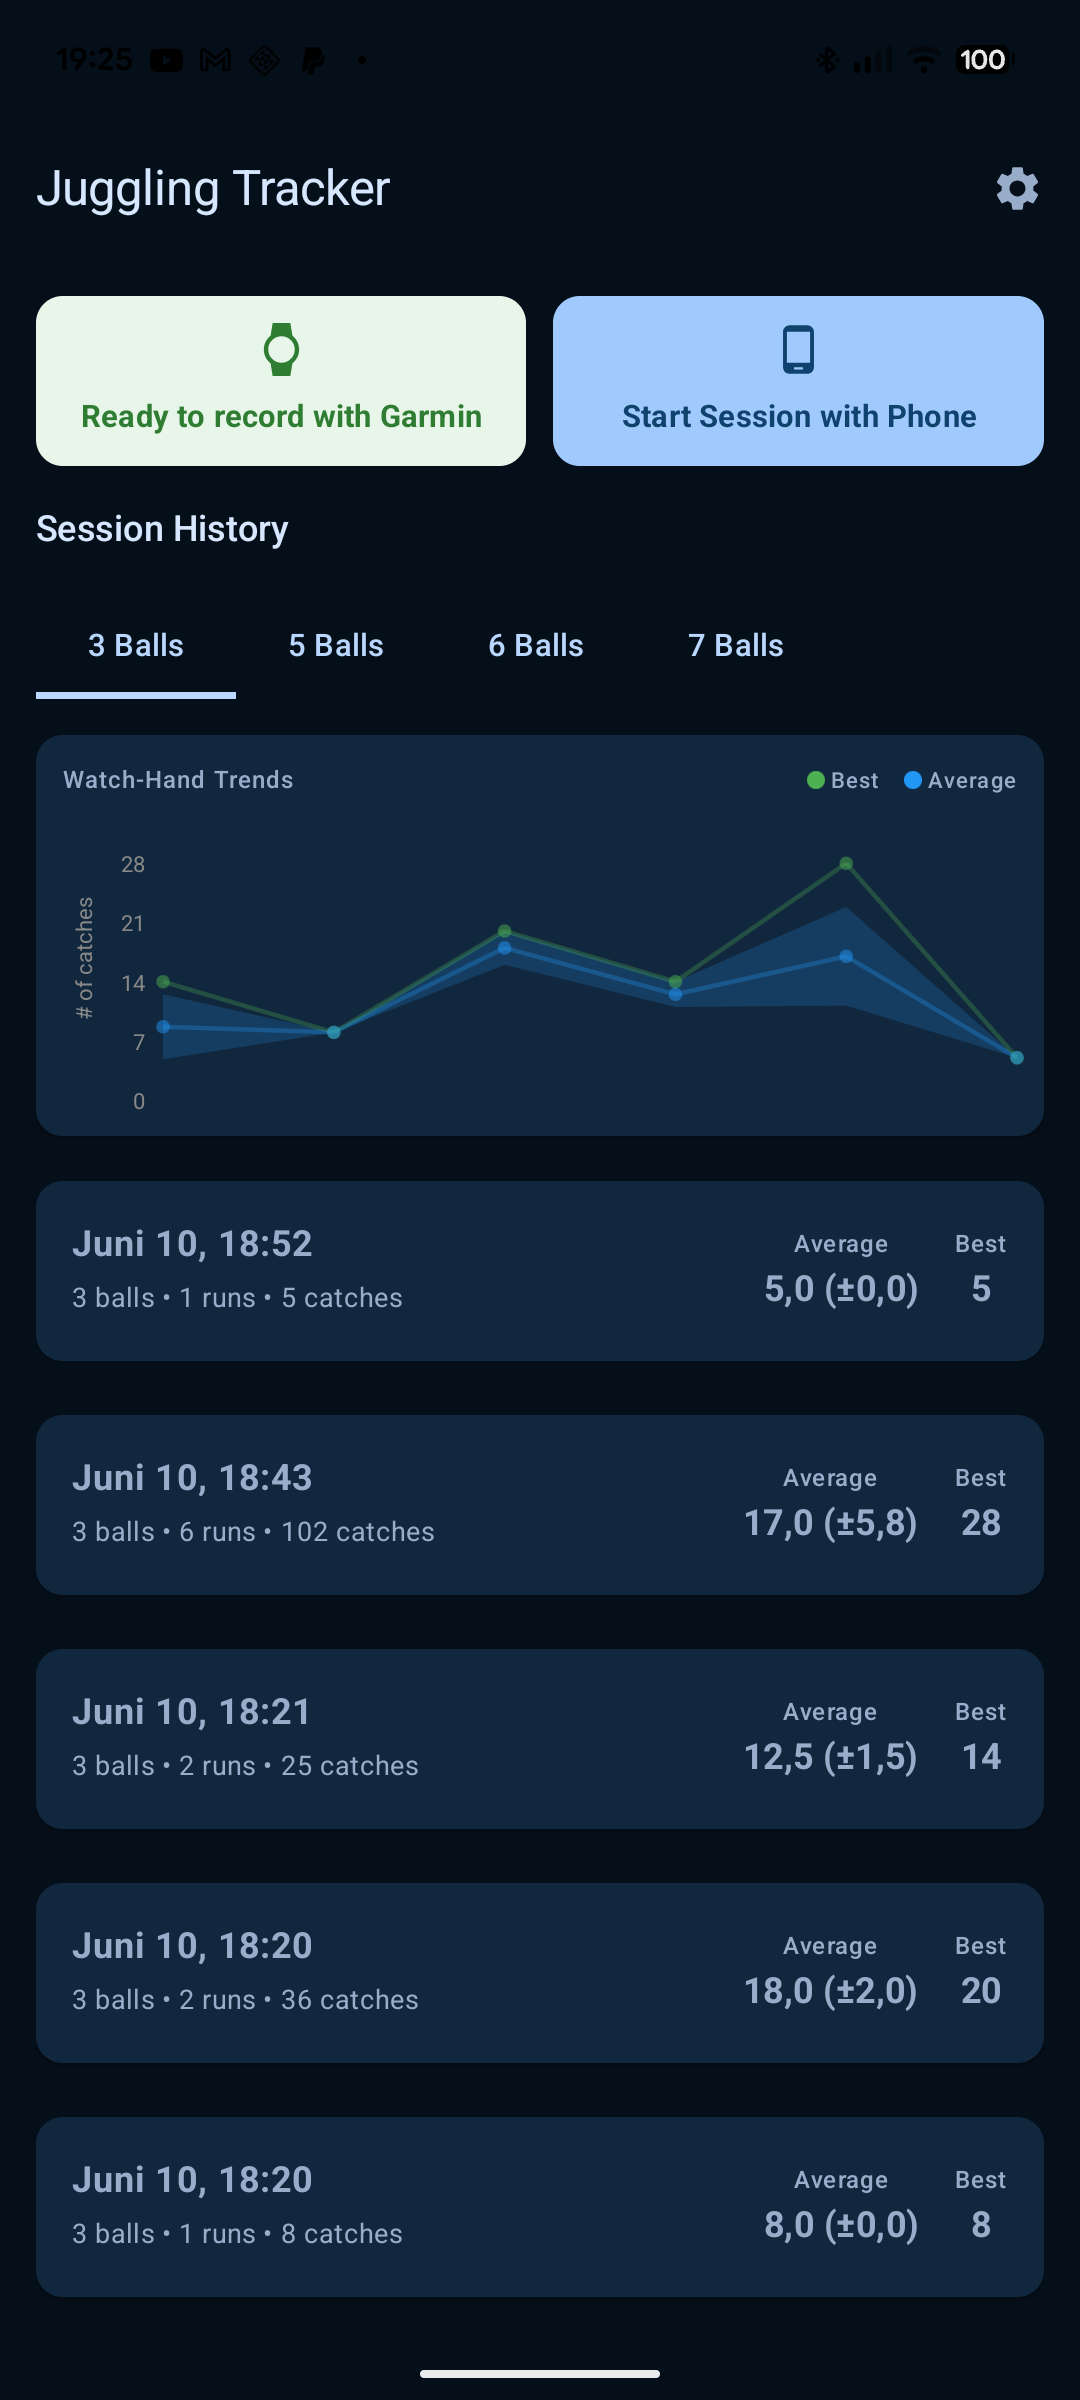
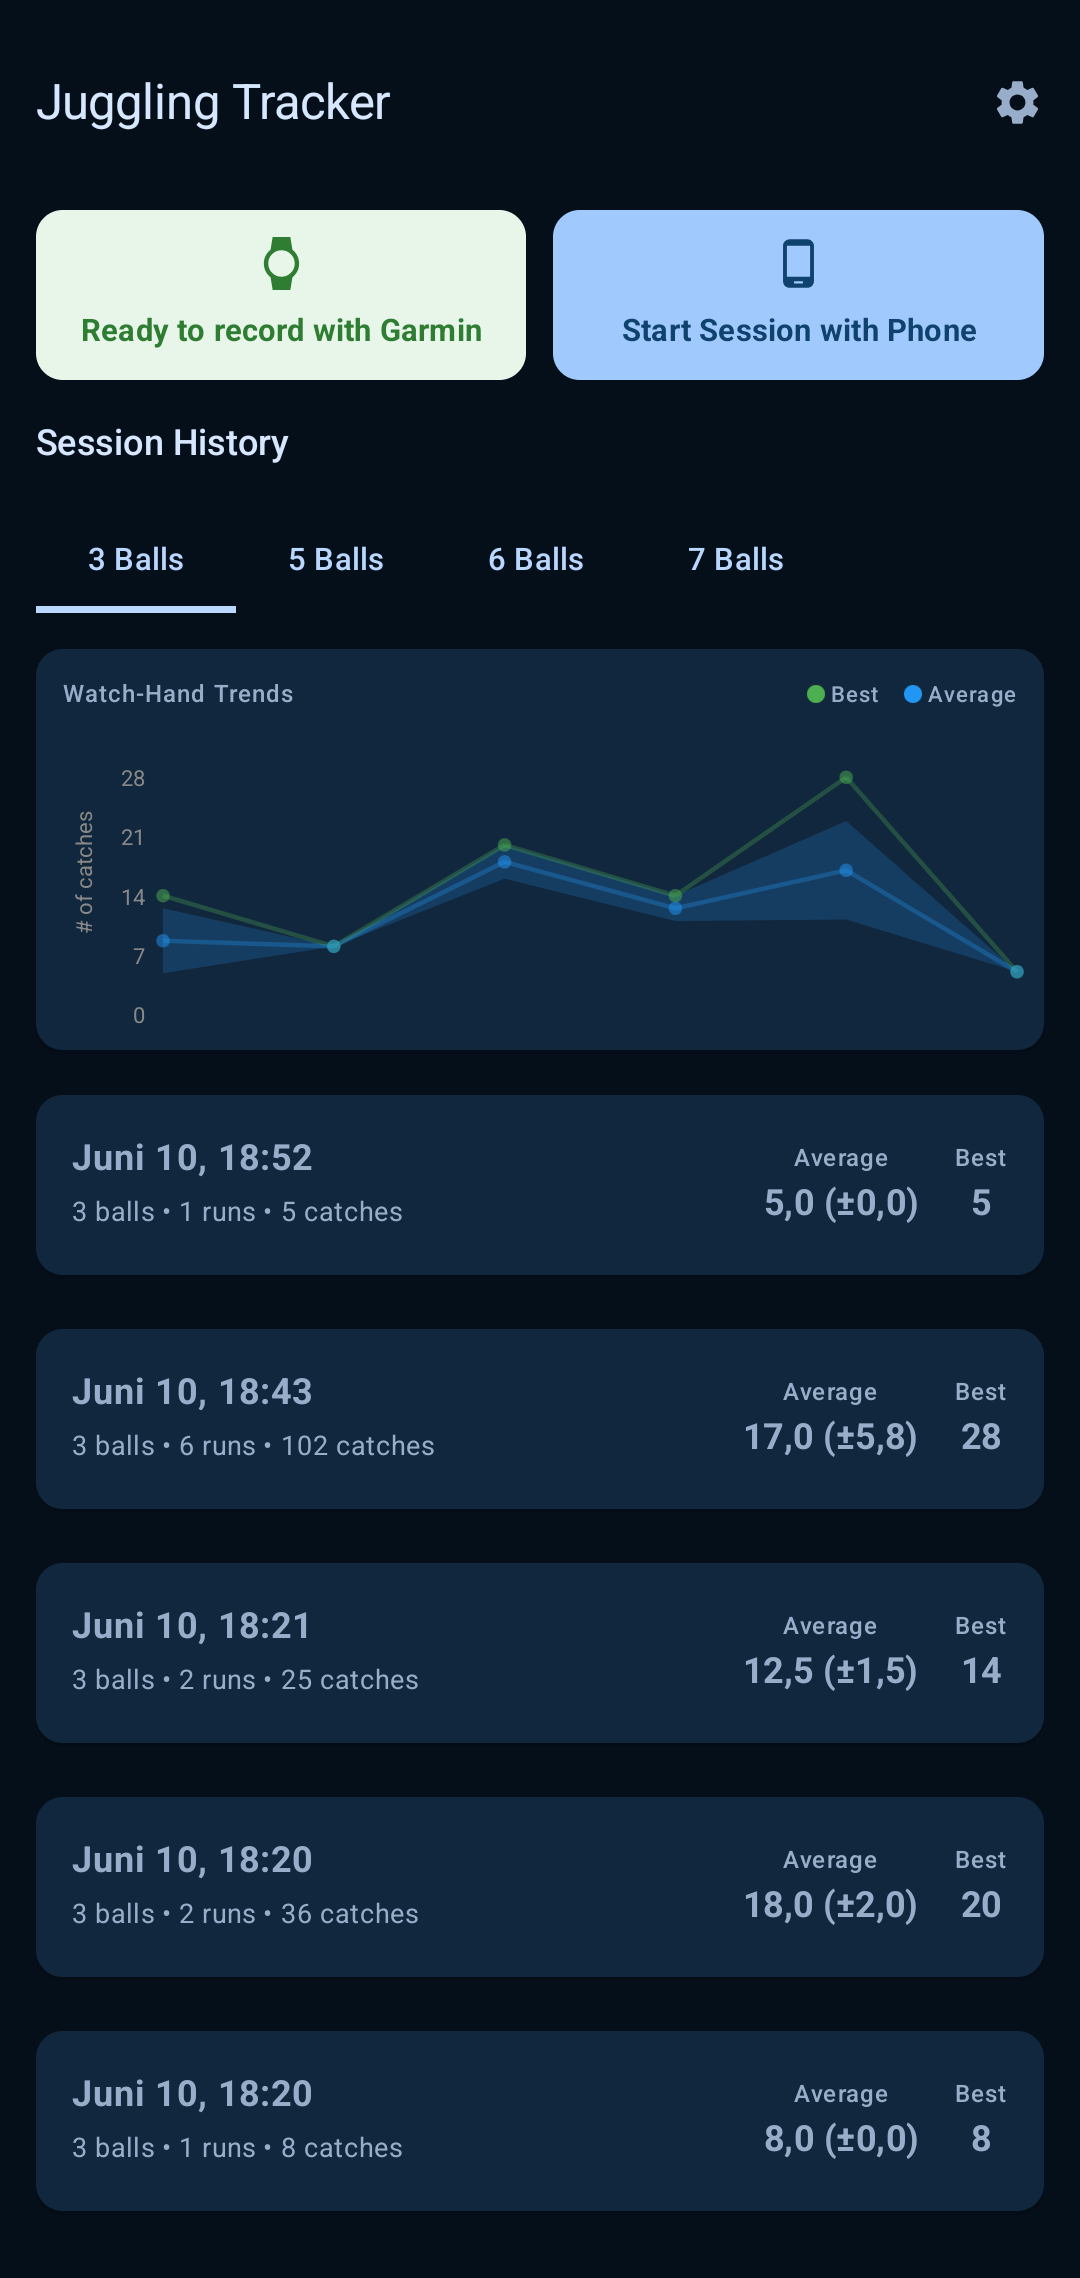
added screenshots for publishing

diff --git a/android/PUBLISHING.md b/android/PUBLISHING.md
@@ -13,23 +13,24 @@ This document outlines the steps and assets needed to publish **Juggling Tracker
 
 ## 2. Store Listing Assets
 
-- [x] **App Icon**: 512x512 PNG (Generated: `android/play_store_icon.png`).
-- [x] **Feature Graphic**: 1024x500 PNG (Generated: `android/play_store_feature_graphic.png`).
-- [ ] **Screenshots**: At least 2 phone screenshots (portrait).
+- **App Icon**: 512x512 PNG (Generated: `android/play_store_icon.png`).
+- **Feature Graphic**: 1024x500 PNG (Generated: `android/play_store_feature_graphic.png`).
+- **Screenshots**: At least 2 phone screenshots (portrait).
     - *Tip*: Take screenshots of the Tracker screen and the Graph view.
-- [ ] **Short Description**: (Max 80 chars)
-    > Track your juggling progress with Garmin and phone sensors. Master your flow!
-- [ ] **Full Description**: (Max 4000 chars)
-    > Juggling Tracker is the ultimate companion for jugglers looking to quantify their practice. 
-    > 
-    > **Key Features:**
-    > - **Garmin Integration**: Sync catches automatically from your Garmin watch.
-    > - **Phone Tracking**: Use your phone's sensors to track runs when you're not wearing a watch.
-    > - **Visualization**: View your progress over time with beautiful history graphs.
-    > - **Voice Feedback**: Get real-time catch count announcements so you can keep your eyes on the balls.
-    > - **Detailed Analytics**: Track average throws, best runs, and consistency across different ball counts.
-    > 
-    > Whether you're working on your first 3-ball cascade or pushing for a new 7-ball record, Juggling Tracker helps you stay motivated and see your improvement.
+- **Short Description**: (Max 80 chars)
+    Track your juggling progress with automatic catch detection.
+- **Full Description**: (Max 4000 chars)
+    Juggling Tracker is the ultimate companion for jugglers looking to quantify their practice.
+
+    Key Features:
+    * Automated Detection: Use your phone's sensors to track catches and runs automatically. 
+    * Visualization: View your progress over time with history graphs.
+    * Detailed Analytics: Track average throws, best runs, and consistency across different ball counts.
+    * Garmin Integration: If you don't want to wear the phone on your wrist, use a garmin watch and sync your sessions seamlessly. 
+
+    Whether you're working on your first 3-ball cascade or pushing for a new 7-ball record, Juggling Tracker helps you stay motivated and see your improvement.
+
+
 
 ## 3. Privacy Policy
 
